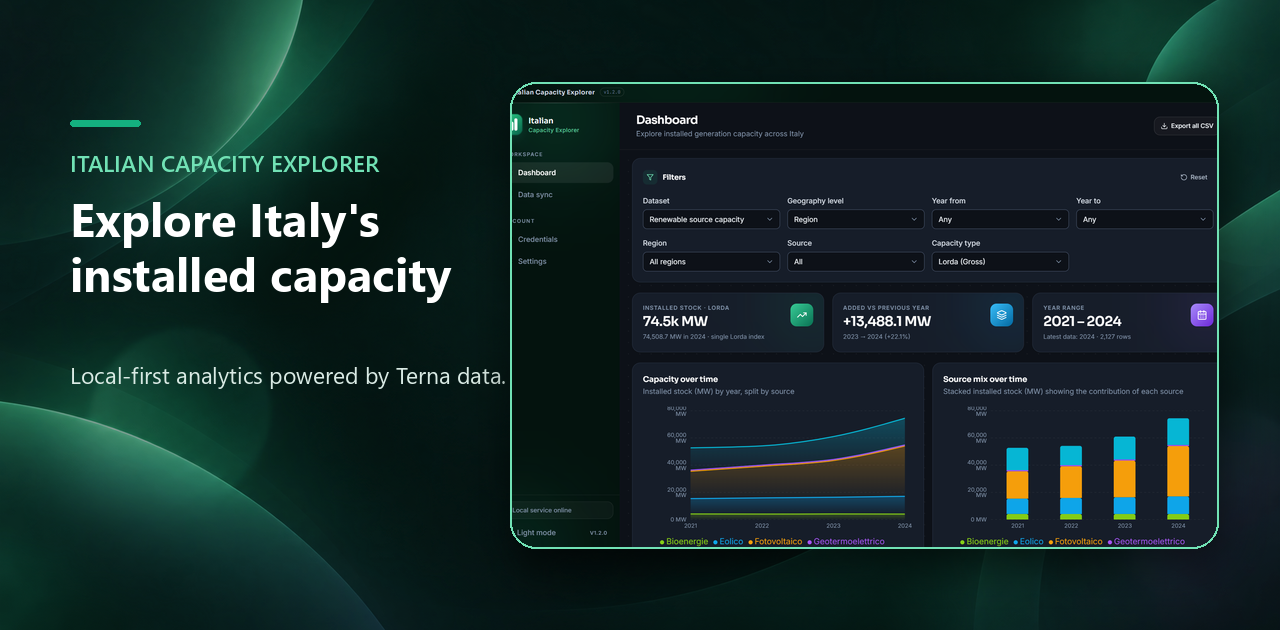
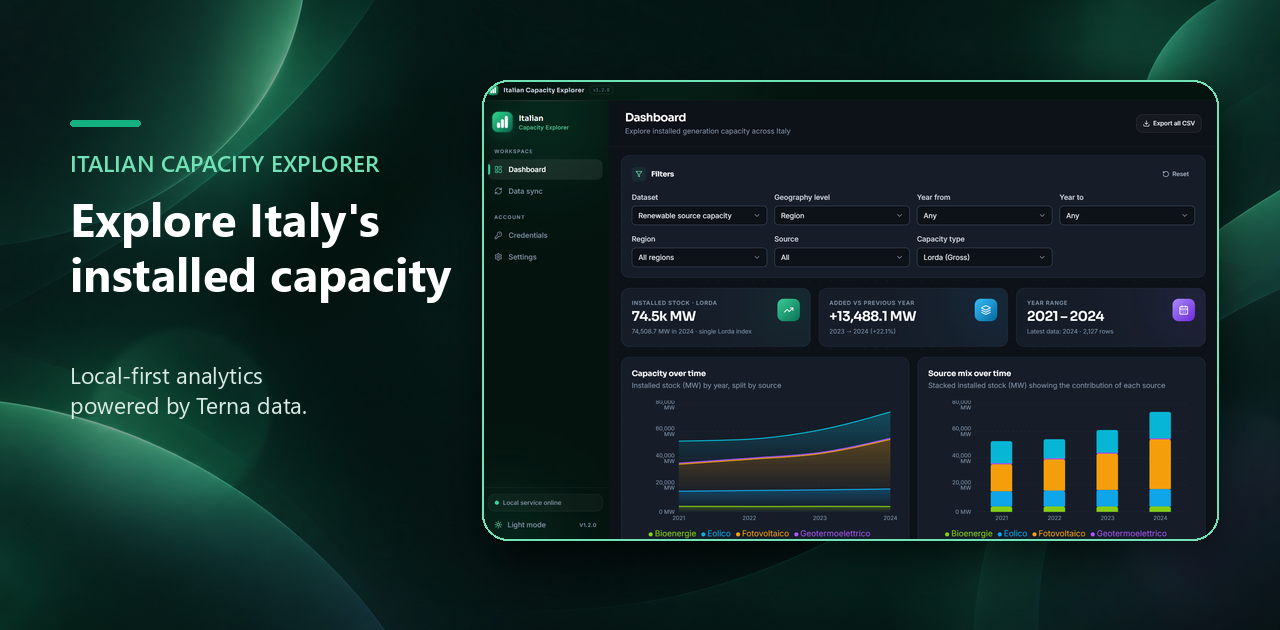
Fix share-card cropping, document the free signing path
The OG and social images cropped the app window (the panel box aspect ratio did not match the screenshot, so the sidebar and the right-hand cards were cut); panel boxes are now derived from the screenshot ratio and the subtitle wraps in two lines. docs/signing.md gets a step-by-step free path (SignPath Foundation, with the workflow snippet), the real price and requirements of Certum's Open Source Code Signing, and the release workflow carries a ready-to-uncomment SignPath block.

diff --git a/scripts/generate-brand-assets.py b/scripts/generate-brand-assets.py
@@ -88,19 +88,43 @@ def rounded_panel(
     ImageDraw.Draw(base).rounded_rectangle(box, radius=radius, outline=outline, width=2)
 
 
+def panel_box(
+    canvas: tuple[int, int],
+    *,
+    height: int,
+    top: int,
+    right: int,
+) -> tuple[int, int, int, int]:
+    """Box whose aspect ratio equals the screenshot's, so `rounded_panel` (which
+    covers the box) never crops the window: a mismatched ratio silently cut the
+    sidebar off the left and the right-hand cards off the right edge."""
+    with Image.open(SCREENSHOT) as shot:
+        ratio = shot.width / shot.height
+    width = round(height * ratio)
+    x2 = canvas[0] - right
+    return (x2 - width, top, x2, top + height)
+
+
 def make_hero() -> None:
-    base = fit_cover(Image.open(BACKGROUND), (1600, 900))
+    size = (1600, 900)
+    base = fit_cover(Image.open(BACKGROUND), size)
     overlay = Image.new("RGBA", base.size, (4, 19, 14, 76))
     base.alpha_composite(overlay)
     glow = Image.new("RGBA", base.size, (0, 0, 0, 0))
     glow_draw = ImageDraw.Draw(glow)
     glow_draw.ellipse((180, 65, 1420, 875), fill=(20, 176, 127, 45))
     base.alpha_composite(glow.filter(ImageFilter.GaussianBlur(60)))
-    rounded_panel(base, Image.open(SCREENSHOT), (180, 100, 1420, 875), 30, (113, 226, 181, 95))
+    rounded_panel(
+        base,
+        Image.open(SCREENSHOT),
+        panel_box(size, height=775, top=100, right=180),
+        30,
+        (113, 226, 181, 95),
+    )
     base.convert("RGB").save(ASSETS / "hero-site.png", "PNG", optimize=True)
 
 
-def draw_share_card(path: Path, size: tuple[int, int], screenshot_box: tuple[int, int, int, int]) -> None:
+def draw_share_card(path: Path, size: tuple[int, int], *, height: int, top: int, right: int) -> None:
     base = fit_cover(Image.open(BACKGROUND), size)
     base.alpha_composite(Image.new("RGBA", size, (4, 19, 14, 100)))
     draw = ImageDraw.Draw(base)
@@ -119,13 +143,20 @@ def draw_share_card(path: Path, size: tuple[int, int], screenshot_box: tuple[int
         fill=WHITE,
         spacing=4,
     )
-    draw.text(
+    draw.multiline_text(
         (left, accent_y + round(h * 0.38)),
-        "Local-first analytics powered by Terna data.",
+        "Local-first analytics\npowered by Terna data.",
         font=body,
         fill=(218, 235, 229, 235),
+        spacing=5,
     )
-    rounded_panel(base, Image.open(SCREENSHOT), screenshot_box, max(20, round(w * 0.02)), (113, 226, 181, 105))
+    rounded_panel(
+        base,
+        Image.open(SCREENSHOT),
+        panel_box(size, height=height, top=top, right=right),
+        max(20, round(w * 0.02)),
+        (113, 226, 181, 105),
+    )
     base.convert("RGB").save(path, "PNG", optimize=True)
 
 
@@ -171,8 +202,8 @@ def main() -> None:
 
     brand_icon(256).save(ROOT / "public" / "brandmark.png", "PNG", optimize=True)
     make_hero()
-    draw_share_card(ASSETS / "github-social-preview.png", (1280, 630), (510, 82, 1218, 548))
-    draw_share_card(ROOT / "public" / "og-image.png", (1200, 630), (482, 84, 1144, 545))
+    draw_share_card(ASSETS / "github-social-preview.png", (1280, 630), height=460, top=80, right=62)
+    draw_share_card(ROOT / "public" / "og-image.png", (1200, 630), height=430, top=100, right=50)
     make_installer_header()
     make_installer_sidebar()
 

diff --git a/docs/signing.md b/docs/signing.md
@@ -17,69 +17,81 @@ fix**. This document covers the options that actually work, cheapest first.
 A **self-signed certificate does not help** — it is only useful to test the
 signing pipeline locally, because Windows cannot chain it to a trusted root.
 
-## Option A — SignPath Foundation (free for open-source projects)
+## Option A — free: SignPath Foundation (open-source projects)
 
-Fits this project: MIT licensed, public repository, actively developed.
+This is the only genuinely free route to a *trusted* Windows signature. The
+certificate is issued to the SignPath Foundation and used to sign the artifacts
+built by your GitHub Actions workflow, so the binary is provably linked to this
+repository.
 
-1. Apply at <https://signpath.org/apply.html> (open-source program).
-2. SignPath provides the certificate (issued to the SignPath Foundation) and
-   signs the binaries built by your GitHub Actions workflow; the resulting
-   signature links the binary to this repository.
-3. Wire the `SignPath/github-action-submit-signing-request` action into
-   `.github/workflows/release.yml`, replacing the “Import the code-signing
-   certificate” step.
-4. Approvals are manual per release, which is fine for a desktop app that ships
-   a handful of builds per year.
+Eligibility: an OSI-approved license (MIT here), a public repository, active
+development, and — for OSS projects — every job of the workflow must run on
+GitHub-hosted runners.
 
-Trade-off: the publisher name in the UAC prompt is *SignPath Foundation*, not
-your own name.
+1. **Apply** at <https://signpath.io/solutions/open-source-community>; approval is
+   manual and takes a few days.
+2. **In SignPath**: create an organization, add the predefined *Trusted Build
+   System* “GitHub.com” to it, and install the
+   [SignPath GitHub App](https://github.com/apps/signpath) on the repository.
+3. **Create a project** for this app with:
+   - an *Artifact Configuration* describing which files inside the uploaded
+     artifact to sign (`*.exe`, `*.dll`, `*.msi`);
+   - a *Signing Policy* (e.g. `release-signing`) — keep the manual approval if
+     you want a human check before every signature.
+4. **API token**: create one for a user with submitter rights and store it as the
+   repository secret `SIGNPATH_API_TOKEN`.
+5. **Wire it into `.github/workflows/release.yml`**, after the installer is built:
 
-## Option B — commercial certificate (OV), signed locally or in CI
+   ```yaml
+   - name: Upload the unsigned installer
+     id: upload-unsigned
+     uses: actions/upload-artifact@v4
+     with:
+       name: unsigned-installer
+       path: src-tauri/target/release/bundle/nsis/*.exe
 
-Any public CA (Certum, Sectigo, GlobalSign, DigiCert, Actalis…) issues OV code
-signing certificates to individuals and companies. Since the CA/Browser Forum
-rules of 2023 the private key must live on a FIPS 140-2 Level 2 device, so the
-certificate arrives either on a **USB token** or as a **cloud HSM** service
-(Certum *SimplySign*, DigiCert *KeyLocker*, …).
+   - name: Sign with SignPath
+     uses: signpath/github-action-submit-signing-request@v3
+     with:
+       api-token: ${{ secrets.SIGNPATH_API_TOKEN }}
+       organization-id: "<SignPath organization id>"
+       project-slug: "italian-capacity-explorer"
+       signing-policy-slug: "release-signing"
+       github-artifact-id: ${{ steps.upload-unsigned.outputs.artifact-id }}
+       wait-for-completion: true
+       output-artifact-directory: "signed/"
+   ```
 
-With a cloud certificate you can keep using the repository script:
+   Then attach `signed/` to the release instead of the unsigned file. The action
+   only works on artifacts uploaded with `actions/upload-artifact` v4+.
 
-```powershell
-$env:TAURI_SIGNING_THUMBPRINT = "<certificate thumbprint>"
-npm run release
-# or
-powershell -ExecutionPolicy Bypass -File scripts/release.ps1 -Thumbprint <thumbprint>
-```
+Trade-offs: the publisher name Windows shows is **SignPath Foundation**, not your
+own name, and each signing request goes through their policy (manual approval by
+default). SmartScreen reputation is pooled at foundation level, so it builds up
+across releases.
 
-Tauri then signs the application executable, the uninstaller and the NSIS
-installer (SHA-256 + RFC-3161 timestamping).
+## Option B — cheapest paid: Certum Open Source Code Signing (~$58/year)
 
-To sign **inside GitHub Actions** instead of on your machine, export the
-certificate as a password-protected `.pfx` (only possible with cloud-HSM
-certificates — a physical token cannot be exported) and:
+Certum sells an *Open Source Code Signing* certificate in the cloud for around
+**$58/year** (list price on certum.store). It is the cheapest option that puts
+**your own name** in the certificate: the subject is
+`Open Source Developer <your name>`, RSA 3072, private key in a cloud HSM
+(FIPS 140-2 level 3, no USB token), limit of 5 000 signatures per month.
 
-```powershell
-# base64 of the .pfx, then store the two values as repository secrets
-[Convert]::ToBase64String([IO.File]::ReadAllBytes("cert.pfx")) | Set-Clipboard
-```
+What it requires:
 
-Repository → Settings → Secrets and variables → Actions:
+- identity verification (ID documents) and a review of the open-source project,
+- the **SimplySign Desktop** app on the signing machine plus the SimplySign
+  mobile app for access codes,
+- signing happens where SimplySign Desktop runs: use
+  `powershell -File scripts/release.ps1 -Thumbprint <thumbprint>` on your
+  machine. Automating this inside CI is possible only if the CA supports
+  headless signing for your product; a cloud certificate tied to a desktop
+  app is generally not usable from a GitHub runner.
 
-| Kind | Name | Value |
-| --- | --- | --- |
-| Variable | `SIGNING_ENABLED` | `true` |
-| Variable | `SIGNING_THUMBPRINT` | certificate thumbprint (SHA-1 hex) |
-| Secret | `SIGNING_PFX_BASE64` | base64 of the `.pfx` |
-| Secret | `SIGNING_PFX_PASSWORD` | `.pfx` password |
-
-The `Release` workflow then imports the certificate, builds, verifies the
-signature with `signtool verify` and attaches the signed installer to the
-release. With `SIGNING_ENABLED` unset the same workflow produces an unsigned
-installer, so you can wire everything up before buying anything.
-
-Trade-off: OV certificates run roughly €100–400/year depending on the CA and
-whether you pick a cloud HSM; the SmartScreen warning disappears gradually as
-the certificate accumulates downloads.
+Trade-off: ~€55/year, and the SmartScreen warning fades as the certificate
+accumulates downloads (OV certificates are not exempt from the reputation ramp
+the way EV ones are).
 
 ## Option C — Azure Artifact Signing (formerly Trusted Signing)
 
